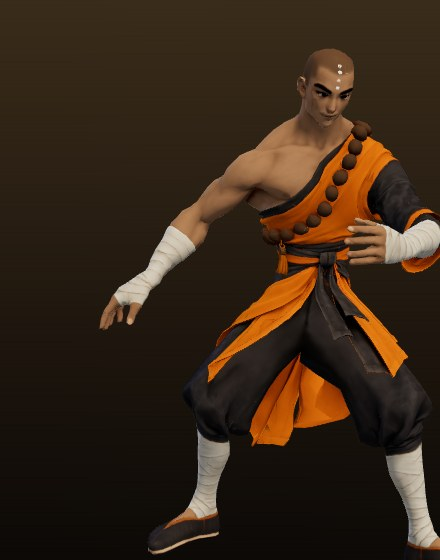
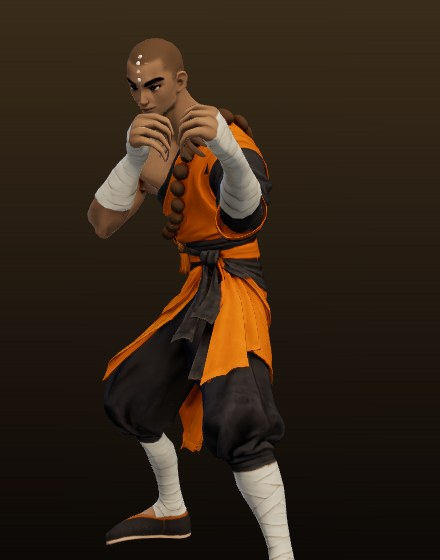
WIP (branch only, not shipped): monk fighting guard with closed fists; rogue and monk portraits redone
Claude-Session: https://claude.ai/code/session_01Ufo9132RSfb75mkEr2q8gu

diff --git a/kingdom-rising-2/src/heromodels.js b/kingdom-rising-2/src/heromodels.js
@@ -52,7 +52,7 @@ const MODELS = {
   priest: { base: 'models/priest_rig.fbx', clips: { walk: 'models/anim/priest_walk.json', run: 'models/anim/priest_run.json' }, height: 1.96, walkSpeed: 1.6, runSpeed: 5.5 }, // (borrows the monk's walk and run, retargeted)
   shaman: { base: 'models/shaman_rig.fbx', clips: { walk: 'models/anim/shaman_walk.json', run: 'models/anim/shaman_run.json' }, height: 2.42, walkSpeed: 1.6, runSpeed: 5.5 }, // (the owner's shaman, with his own walk and run)
   berserker: { keepLegs: true, flipEdge: true, twoHand: true, oneHand: ['wcA', 'wcB', 'wcC'], base: 'models/sham_rig.fbx', clips: { combo2: 'models/anim/bers_combo2.json', walk: 'models/anim/sham_walk.json', run: 'models/anim/bers_fcharge.json', cslash: 'models/anim/bers_cslash.json', attack: 'models/anim/bers_attack.json', slam: 'models/anim/bers_slam.json', spin: 'models/anim/bers_spin.json', shout: 'models/anim/bers_shout.json', athrow: 'models/anim/bers_athrow.json', acatch: 'models/anim/bers_acatch.json' }, heightClips: ['shout', 'athrow', 'acatch', 'combo2'], flatClips: ['slam', 'spin'], uprightClips: { slam: [[0, 8], [0.3, 6], [0.9, 0], [1.35, -14], [1.8, 8], [2.2, 30], [2.7, 10]] }, /* (the recording dives over backwards with a half turn, which left him lying on his back: his hips are held upright instead, leaning back as the axe goes up and forward into the slam; degrees, + forward) */ moves: { cutA: ['cslash', 0.1, 1.0, 0.5], cutB: ['cslash', 1.0, 1.9, 1.2], shoutM: ['shout', 0.0, 1.06, 0, true], athrow: ['athrow', 0.1, 1.65, 0, true], acatch: ['acatch', 0.0, 1.35, 0, true], bA: ['attack', 0.0, 1.4, 1.08, false, 0, false, 0.75, BERS_CHOP_T], bB: ['attack', 1.4, 2.8, 1.84, false, 0, false, 0.32, BERS_RIP_T], /* (9th: a time map; the blow's damage lands at its 8th share, where the axe strikes) */ /* (the owner's barbarian Attack, cut in two: (bA) from his guard he steps in with the right foot, heaves the axe up over his head in both hands and chops it down in front of him to his left; (bB) he wrenches it back up out of the ground, sweeping it across to his right as he steps back into his guard, where bA begins again) */ leap: ['slam', 0.3, 2.2, 1.35, true, 0, false, 0.6], /* (Jump and Slam: up with the axe raised overhead for the first 60% of the leap, then the chop down that lands as he does) */ storm: ['spin', 1.15, 1.15, 0, true] /* (one steady pose, the frame where his arm and axe swing out level; the whole body spins smoothly around it) */, wcA: ['combo2', 0.5, 1.5, 1.13, false, 0, false, 0.63], wcB: ['combo2', 1.5, 2.5, 2.0, false, 0, false, 0.5], wcC: ['combo2', 2.5, 3.7, 3.03, false, 0, false, 0.44], cvA: ['combo2', 0.5, 1.5, 1.13, false, 0, false, 0.63], cvB: ['combo2', 1.5, 2.25, 2.07, false, 0, false, 0.76], cvC: ['combo2', 2.6, 3.7, 3.05, false, 0, false, 0.41] /* (cvA-cvC: the same three cleaves of his Weapon Combo 2, swung in both hands (gripFor, twoGrip); each blow lands where the axe head, held so, comes down through chest height in front of him. The recording's stretch from 2.25 to 2.6 s is left out: there the axe hangs low behind him, below the camera's view; joinFade carries him across) */ }, combo: ['bA', 'bB'], moveFor: { swing1: 'cvA', swing2: 'cvB', swing3: 'cvC', sweep: 'cutA' }, /* (the owner's Weapon Combo 2: three cleaves, his own steps carrying them, the great axe in both hands (cvA-cvC; wcA-wcC are the same blows one-handed, as recorded); his barbarian Attack (bA, bB) is kept for the old two-handed chop) */ recLegs: ['bA', 'bB', 'wcA', 'wcB', 'wcC', 'cvA', 'cvB', 'cvC'], travelClips: ['attack'], recGrip: [0.1891, -0.7798, 0.1738, 0.5709], gripFor: { cvA: [0.2706, -0.6533, -0.2706, 0.6533], cvB: [0.2706, -0.6533, -0.2706, 0.6533], cvC: [0.2706, -0.6533, -0.2706, 0.6533], leap: [0.2706, -0.6533, -0.2706, 0.6533] }, twoGrip: 0.13, gripSlide: 0.035, twoReach: 0.9, joinFade: ['cvA', 'cvB', 'cvC'], twistCap: { cvA: 25, cvB: 25, cvC: 25 } /* (the owner: his chest still looked skinny turning side-on: kept within 25 degrees of square to the camera behind him) */, curlMorph: [0.52, 2.2], mvTail: true, /* (the two-handed cleave, cvA-cvC: gripFor lays the axe in his fist with the haft tilted 45 degrees from his thumb toward his fingers, the angle a wrist holding a great axe in two hands takes (fitted to the recording: of the grips a fist can hold, the one his left hand reaches with the least moving of his right), slid gripSlide of his height toward the head so the butt stays clear of his body; twoGrip: the left fist that far below the right (a share of his height); twoReach: how straight the left arm may get; joinFade: the held combo's jumps in the recording fade; twistCap: his body's turn softly capped, in degrees; curlMorph: his fingers close round the haft while he holds it in both hands) */ recFix: { plant: true, clip: 'attack', pin: ['Left'], lift: [['Right', 0.2, 0.72, 0.1], ['Right', 2.07, 2.35, 0.13]], fist: [[2.05, 2.18, 2.26, 2.42, 0.08, 0], [1.06, 1.12, 1.75, 1.98, 0, 0.42]] }, /* (recFix, by time in the recording: his feet set down on the ground (the recording floats them) and his back (left) foot kept where it stands; the right foot, which the recording slides in before its step and drags back after it, lifted into real steps; as he brings the axe back to his guard the recording draws his fists into his belly, so they are held a little further out; and while the axe is down in the ground his fists are held 42 cm higher, so its lower blade bites about 30 cm into the earth (at the recording's own height it sank 48 cm, nearly the whole blade)) */ /* (the combo plays the recording whole: his own legs and the hips' travel (the step in and back), not the planted stance; recGrip: the axe sits in his fist so its haft runs through both hands of the recording (fitted to the Attack: the left fist stays within a few centimetres of the haft), and it never turns in his hand while he swings) */ /* (Skill 01 is his Battle Shout; the throw and catch play for the axe throw) */ /* (Jump and Slam for Leap Strike; Axe Spin for Bladestorm; his dodges, jump, death, flinch and knock-down are the shared basic set) */ /* (the owner's Charged Slash, cut in two: a wide sweep from his right across to his left, then straight back; the axe in front of him the whole way) */ height: 3.6, walkSpeed: 1.6, runSpeed: 5.5 }, // (the owner's latest berserker; the older one is retired (his body file is still called sham_rig; the shaman has his own, shaman_rig). He runs with his own recorded Standard Forward Charge, a driving charge with the axe at his side, not the monk's light jog)
-  monk: { skinFix: 0.75, fpCurl: [0.5, 0.08, 3.3], base: 'models/monk2_rig.fbx', clips: Object.assign(Object.fromEntries(['walk', 'run', 'back', 'risekick', 'spinkick'].map(k => [k, 'models/anim/monk_' + k + '.json'])), Object.fromEntries(['punchA', 'punchB', 'attack', 'double', 'charged', 'counter', 'thrust', 'jump', 'dodge', 'stance', 'dead', 'cheer'].map(k => [k, 'models/anim/monk2_' + k + '.json'])), { spinkick2: 'models/anim/monk2_spinkick.json', hkick: 'models/anim/monk2_highkick.json' }, /[?&]kickgal/.test(location.search) ? Object.fromEntries(['kick', 'roundhouse', 'spinkick', 'risekick', 'doublekick', 'lungeround', 'sweep', 'flystrike'].map(k => ['g_' + k, 'models/anim/monk_' + k + '.json']).concat(['cast1', 'cast2', 'taunt'].map(k => ['g_' + k, 'models/anim/monk2_' + k + '.json']))) : {}), height: 2.34, walkSpeed: 1.6, runSpeed: 5.5,
+  monk: { skinFix: 0.75, curl: [0.52, 2.5], /* (the owner: a fighter's closed fists, not limp open hands) */ fpCurl: [0.5, 0.08, 3.3], base: 'models/monk2_rig.fbx', clips: Object.assign(Object.fromEntries(['walk', 'run', 'back', 'risekick', 'spinkick'].map(k => [k, 'models/anim/monk_' + k + '.json'])), Object.fromEntries(['punchA', 'punchB', 'attack', 'double', 'charged', 'counter', 'thrust', 'jump', 'dodge', 'stance', 'dead', 'cheer'].map(k => [k, 'models/anim/monk2_' + k + '.json'])), { spinkick2: 'models/anim/monk2_spinkick.json', hkick: 'models/anim/monk2_highkick.json' }, /[?&]kickgal/.test(location.search) ? Object.fromEntries(['kick', 'roundhouse', 'spinkick', 'risekick', 'doublekick', 'lungeround', 'sweep', 'flystrike'].map(k => ['g_' + k, 'models/anim/monk_' + k + '.json']).concat(['cast1', 'cast2', 'taunt'].map(k => ['g_' + k, 'models/anim/monk2_' + k + '.json']))) : {}), height: 2.34, walkSpeed: 1.6, runSpeed: 5.5,
     // slices of the recorded moves: [clip, start s, end s, the moment the blow lands, whole-body move, fixed play time, loops]
     moves: { jab: ['punchB', 0.3, 0.85, 0.6, false, 0, false, 0.4], cross: ['punchB', 0.85, 1.25, 1.0, false, 0, false, 0.4], hook: ['punchA', 0.5, 1.15, 0.9, false, 0, false, 0.4], upper: ['punchA', 1.15, 1.8, 1.4, false, 0, false, 0.4], spin: ['spinkick2', 0.6, 1.55, 1.26, true, 0, false, 0.62], /* (the combo's spinning blow is his own recorded Lunge Spin Kick (made on his model, not the old one's): he spins a full turn and snaps his left foot out head high; the whole body, legs too, even on the run, and the hit lands as the foot does) */ slam: ['attack', 0.3, 1.6, 1.1, false, 0, false, 0.6], /* (8th: the share of the blow where it lands; the game's hit lands there too) */
       hkick: ['hkick', 0.7, 1.45, 1.07, true, 0.45, false, 0.5], /* (his own recorded High Kick (made on his model), for the kicks of Thousand Fists: the right foot driven up head high and back down, 0.45 s whole) */ roll: ['dodge', 0.1, 1.25, 0, true], /* (his own Stand Dodge for every dodge, not the built body's tumble) */

diff --git a/kingdom-rising-2/src/arenalooks.js b/kingdom-rising-2/src/arenalooks.js
@@ -338,13 +338,13 @@ const _gA = new THREE.Vector3(), _gB = new THREE.Vector3(), _gT = new THREE.Vect
 function aimBone(b, child, tgt, w) { b.getWorldPosition(_gA); child.getWorldPosition(_gB); _gB.sub(_gA); if (_gB.lengthSq() < 1e-10) return; _gB.normalize(); _gQ.setFromUnitVectors(_gB, tgt); _gQ.slerp(_gI, 1 - w); b.getWorldQuaternion(_gQ2); _gQ2.premultiply(_gQ); b.parent.getWorldQuaternion(_gQ).invert(); b.quaternion.copy(_gQ.multiply(_gQ2)); b.updateWorldMatrix(false, true); }
 // (the owner) the rogue's ready guard: whenever she is not striking, elbows in at her sides and both forearms bent to point ahead of her,
 // so the daggers (which run out along the forearm) point at whatever she faces, standing, walking and running; blended out as a blow plays
-const GUARD = { rogue: { arm: [0.16, -1, 0.42], fore: [-0.14, 0.12, 1], run: 0 } }; /* (run: how much of the guard is kept at a full run: none, the owner: her arms pump with the run and the blades swing with them, like the warrior's sword) */
+const GUARD = { rogue: { arm: [0.16, -1, 0.42], fore: [-0.14, 0.12, 1], run: 0, hang: true }, monk: { arm: [0.3, -0.75, 0.45], fore: [-0.35, 0.8, 0.55], lead: { arm: [0.15, -0.55, 0.85], fore: [-0.15, 0.55, 0.85] }, run: 0 } }; /* (the monk: a fighter's guard, both fists up, the left (lead) one out in front, the right at the chin) */ /* (run: how much of the guard is kept at a full run: none, the owner: her arms pump with the run and the blades swing with them, like the warrior's sword) */
 function guardArms(ch, dt) { const G = GUARD[ch.heroCls], H = ch.heroModel; if (!G || !H || H === 'loading' || !H.bones) return; const B = H.bones, rest = 1 - Math.min(1, (H.ikA || 0) + (H.mw || 0));
   const w0 = rest * (1 - (1 - G.run) * Math.min(1, ((H.w && H.w.run) || 0) + ((H.w && H.w.walk) || 0) * 0.5)), rq = ch.root.getWorldQuaternion(_rq2), gw = H.guardW || (H.guardW = { Left: 0, Right: 0 });
   for (const [sd, sx] of [['Left', 1], ['Right', -1]]) { const a = B[sd + 'Arm'], f = B[sd + 'ForeArm'], h = B[sd + 'Hand']; if (!a || !f || !h) continue;
-    f.getWorldPosition(_gA); h.getWorldPosition(_gB); const dn = -(_gB.y - _gA.y) / Math.max(1e-6, _gB.distanceTo(_gA)), hang = Math.min(1, Math.max(0, (dn - 0.45) / 0.35)) * (1 - Math.min(1, ((H.w && H.w.run) || 0) + ((H.w && H.w.walk) || 0) * 0.5)); /* (an arm the blow is not using, left hanging by the recording: held up in the guard too, so its blade keeps pointing ahead) */
+    f.getWorldPosition(_gA); h.getWorldPosition(_gB); const dn = -(_gB.y - _gA.y) / Math.max(1e-6, _gB.distanceTo(_gA)), hang = !G.hang ? 0 : Math.min(1, Math.max(0, (dn - 0.45) / 0.35)) * (1 - Math.min(1, ((H.w && H.w.run) || 0) + ((H.w && H.w.walk) || 0) * 0.5)); /* (an arm the blow is not using, left hanging by the recording: held up in the guard too, so its blade keeps pointing ahead) */
     gw[sd] += (Math.max(w0, hang) - gw[sd]) * Math.min(1, (dt || 0.016) * 14); const w = gw[sd]; if (w < 0.02) continue;
-    aimBone(a, f, _gT.set(G.arm[0] * sx, G.arm[1], G.arm[2]).applyQuaternion(rq).normalize(), w); aimBone(f, h, _gT.set(G.fore[0] * sx, G.fore[1], G.fore[2]).applyQuaternion(rq).normalize(), w); } }
+    const P = sd === 'Left' && G.lead ? G.lead : G; aimBone(a, f, _gT.set(P.arm[0] * sx, P.arm[1], P.arm[2]).applyQuaternion(rq).normalize(), w); aimBone(f, h, _gT.set(P.fore[0] * sx, P.fore[1], P.fore[2]).applyQuaternion(rq).normalize(), w); } }
 const _bfH = new THREE.Vector3(), _bfF = new THREE.Vector3(), _bfFw = new THREE.Vector3();
 function bladesForward(ch) { const H = ch.heroModel; if (!H || H === 'loading' || !H.D || !H.D.holdFix || !ch.hmSockets) return; const rest0 = 1 - Math.min(1, (H.ikA || 0) + (H.mw || 0));
   const rq = ch.root.getWorldQuaternion(_rq2), fw = _rw;
